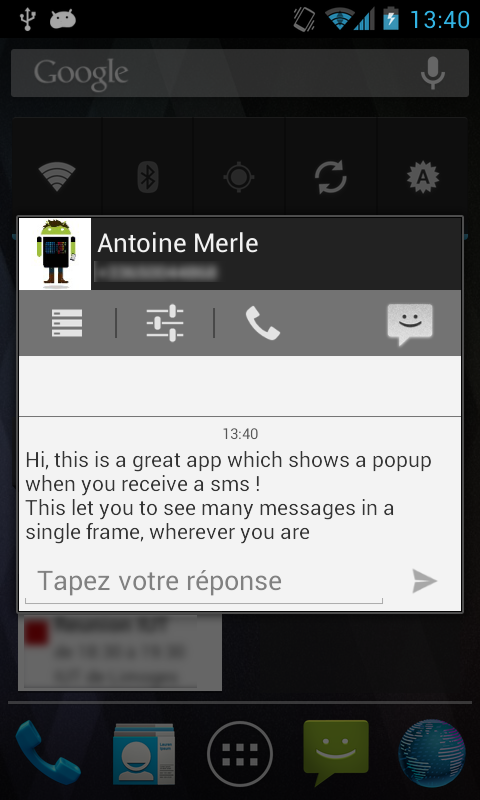
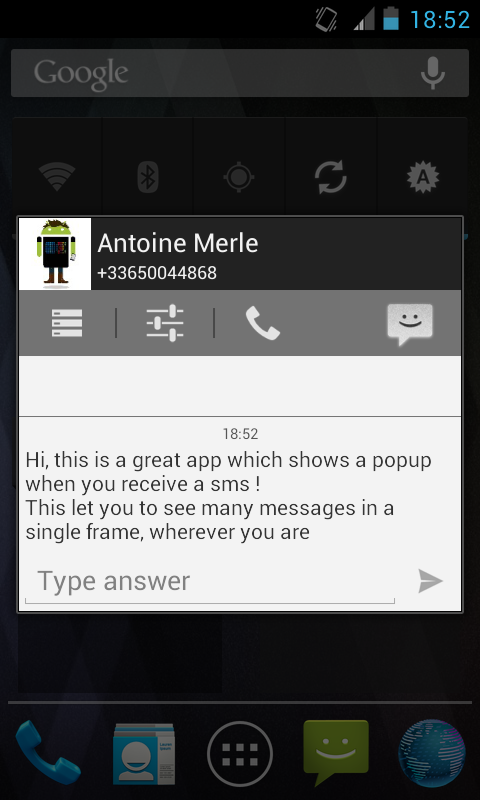
added notifs in preferences

diff --git a/src/fr/castorflex/android/quickanswer/ui/settings/SettingsActivity.java b/src/fr/castorflex/android/quickanswer/ui/settings/SettingsActivity.java
@@ -1,4 +1,4 @@
-package fr.castorflex.android.quickanswer;
+package fr.castorflex.android.quickanswer.ui.settings;
 
 import android.app.AlertDialog;
 import android.content.ActivityNotFoundException;
@@ -8,17 +8,15 @@ import android.net.Uri;
 import android.os.Bundle;
 import android.preference.CheckBoxPreference;
 import android.preference.Preference;
-import android.preference.PreferenceActivity;
+import android.preference.RingtonePreference;
 import android.text.util.Linkify;
 import android.view.ContextThemeWrapper;
 import android.widget.TextView;
+import fr.castorflex.android.quickanswer.R;
 import fr.castorflex.android.quickanswer.providers.SettingsProvider;
-import fr.castorflex.android.quickanswer.ui.QuickAnswersActivity;
 import fr.castorflex.android.quickanswer.utils.MeasuresUtils;
 
 public class SettingsActivity extends com.actionbarsherlock.app.SherlockPreferenceActivity {
-
-    private CheckBoxPreference mPrefActivated;
 
     /**
      * Called when the activity is first created.
@@ -29,27 +27,17 @@ public class SettingsActivity extends com.actionbarsherlock.app.SherlockPreferen
         addPreferencesFromResource(R.xml.preferences);
 
         //Recuperation des preferences
-        mPrefActivated = (CheckBoxPreference) findPreference("qa_activate");
-        Preference prefQA = findPreference("manage_qa");
-        Preference prefVersion = findPreference("version");
-        Preference prefAbout = findPreference("about");
-        Preference prefRate = findPreference("rate");
+        Preference prefQA = findPreference(getString(R.string.pref_key_qa_manage));
+        Preference prefVersion = findPreference(getString(R.string.pref_key_version));
+        Preference prefAbout = findPreference(getString(R.string.pref_key_about));
+        Preference prefRate = findPreference(getString(R.string.pref_key_rate));
 
-        //init des vues
-        boolean enabled = SettingsProvider.isAppEnabled(this);
-        mPrefActivated.setChecked(enabled);
-        mPrefActivated.setSummary(enabled ?
-                R.string.pref_general_qa_activation_summary_false :
-                R.string.pref_general_qa_activation_summary_true);
         prefVersion.setSummary(SettingsProvider.getApplicationVersion(this));
 
         //Init des Listeners
-        mPrefActivated.setOnPreferenceChangeListener(new OnActivationChangeListener());
         prefQA.setOnPreferenceClickListener(new OnQuickAnswerPreferenceClickListener());
         prefAbout.setOnPreferenceClickListener(new OnAboutPreferenceClickListener());
         prefRate.setOnPreferenceClickListener(new OnRatePreferenceClickListener());
-
-
     }
 
     private void showAboutDialog() {
@@ -84,17 +72,6 @@ public class SettingsActivity extends com.actionbarsherlock.app.SherlockPreferen
         }
     }
 
-    class OnActivationChangeListener implements Preference.OnPreferenceChangeListener {
-        @Override
-        public boolean onPreferenceChange(Preference preference, Object o) {
-            SettingsProvider.setAppEnabled(SettingsActivity.this, (Boolean) o);
-            mPrefActivated.setSummary((Boolean) o ?
-                    R.string.pref_general_qa_activation_summary_false :
-                    R.string.pref_general_qa_activation_summary_true);
-            return true;
-        }
-    }
-
     class OnAboutPreferenceClickListener implements Preference.OnPreferenceClickListener {
         @Override
         public boolean onPreferenceClick(Preference preference) {
@@ -119,4 +96,5 @@ public class SettingsActivity extends com.actionbarsherlock.app.SherlockPreferen
             return true;
         }
     }
+
 }

diff --git a/src/fr/castorflex/android/quickanswer/providers/SettingsProvider.java b/src/fr/castorflex/android/quickanswer/providers/SettingsProvider.java
@@ -3,6 +3,7 @@ package fr.castorflex.android.quickanswer.providers;
 import android.content.Context;
 import android.content.SharedPreferences;
 import android.content.pm.PackageManager;
+import android.preference.PreferenceManager;
 import com.google.gson.Gson;
 import com.google.gson.GsonBuilder;
 import fr.castorflex.android.quickanswer.R;
@@ -21,9 +22,6 @@ import java.util.List;
  */
 public class SettingsProvider {
 
-    public static QuickAnswer[] DEFAULT_QA;
-
-    private static final String KEY_ENABLED = "enabled";
     private static final String KEY_QA = "qa";
 
 
@@ -38,19 +36,12 @@ public class SettingsProvider {
     }
 
     public static SharedPreferences getSharedPreferences(Context context) {
-        return context.getSharedPreferences(context.getApplicationInfo().packageName, Context.MODE_PRIVATE);
+        return PreferenceManager.getDefaultSharedPreferences(context);
     }
 
     public static boolean isAppEnabled(Context context) {
         SharedPreferences prefs = getSharedPreferences(context);
-        return prefs.getBoolean(KEY_ENABLED, true);
-    }
-
-    public static void setAppEnabled(Context context, boolean value) {
-        SharedPreferences prefs = getSharedPreferences(context);
-        SharedPreferences.Editor edit = prefs.edit();
-        edit.putBoolean(KEY_ENABLED, value);
-        edit.commit();
+        return prefs.getBoolean(context.getString(R.string.pref_key_qa_activate), true);
     }
 
     public static ArrayList<QuickAnswer> getQuickAnswers(Context context) {
@@ -85,5 +76,8 @@ public class SettingsProvider {
         editor.commit();
     }
 
-
+    public static boolean isNotifEnabled(Context context) {
+        SharedPreferences prefs = getSharedPreferences(context);
+        return prefs.getBoolean(context.getString(R.string.pref_key_notif_activate), false);
+    }
 }

diff --git a/src/fr/castorflex/android/quickanswer/ui/popup/PopupActivity.java b/src/fr/castorflex/android/quickanswer/ui/popup/PopupActivity.java
@@ -1,4 +1,4 @@
-package fr.castorflex.android.quickanswer.ui;
+package fr.castorflex.android.quickanswer.ui.popup;
 
 import android.content.Context;
 import android.content.Intent;
@@ -18,7 +18,7 @@ import android.view.inputmethod.InputMethodManager;
 import android.widget.EditText;
 import android.widget.ImageView;
 import fr.castorflex.android.quickanswer.R;
-import fr.castorflex.android.quickanswer.SettingsActivity;
+import fr.castorflex.android.quickanswer.ui.settings.SettingsActivity;
 import fr.castorflex.android.quickanswer.libs.CustomViewPager;
 import fr.castorflex.android.quickanswer.libs.FixedSpeedScroller;
 import fr.castorflex.android.quickanswer.libs.OverflowLayout;

diff --git a/src/fr/castorflex/android/quickanswer/receivers/SMSReceiver.java b/src/fr/castorflex/android/quickanswer/receivers/SMSReceiver.java
@@ -14,7 +14,7 @@ import android.telephony.SmsMessage;
 import android.telephony.TelephonyManager;
 import fr.castorflex.android.quickanswer.pojos.Message;
 import fr.castorflex.android.quickanswer.providers.SettingsProvider;
-import fr.castorflex.android.quickanswer.ui.PopupActivity;
+import fr.castorflex.android.quickanswer.ui.popup.PopupActivity;
 
 import java.util.ArrayList;
 import java.util.List;

diff --git a/src/fr/castorflex/android/quickanswer/ui/popup/MyFragmentPagerAdapter.java b/src/fr/castorflex/android/quickanswer/ui/popup/MyFragmentPagerAdapter.java
@@ -1,4 +1,4 @@
-package fr.castorflex.android.quickanswer.ui;
+package fr.castorflex.android.quickanswer.ui.popup;
 
 import android.os.Handler;
 import android.support.v4.app.FragmentManager;

diff --git a/src/fr/castorflex/android/quickanswer/ui/settings/QuickAnswersAdapter.java b/src/fr/castorflex/android/quickanswer/ui/settings/QuickAnswersAdapter.java
@@ -1,4 +1,4 @@
-package fr.castorflex.android.quickanswer.ui;
+package fr.castorflex.android.quickanswer.ui.settings;
 
 import android.content.Context;
 import android.view.LayoutInflater;

diff --git a/src/fr/castorflex/android/quickanswer/ui/settings/QuickAnswersActivity.java b/src/fr/castorflex/android/quickanswer/ui/settings/QuickAnswersActivity.java
@@ -1,4 +1,4 @@
-package fr.castorflex.android.quickanswer.ui;
+package fr.castorflex.android.quickanswer.ui.settings;
 
 import android.app.AlertDialog;
 import android.content.Context;

diff --git a/src/fr/castorflex/android/quickanswer/ui/popup/MessagesAdapter.java b/src/fr/castorflex/android/quickanswer/ui/popup/MessagesAdapter.java
@@ -1,4 +1,4 @@
-package fr.castorflex.android.quickanswer.ui;
+package fr.castorflex.android.quickanswer.ui.popup;
 
 import android.content.Context;
 import android.text.util.Linkify;

diff --git a/src/fr/castorflex/android/quickanswer/ui/popup/MessageFragment.java b/src/fr/castorflex/android/quickanswer/ui/popup/MessageFragment.java
@@ -1,4 +1,4 @@
-package fr.castorflex.android.quickanswer.ui;
+package fr.castorflex.android.quickanswer.ui.popup;
 
 import android.graphics.BitmapFactory;
 import android.net.Uri;
